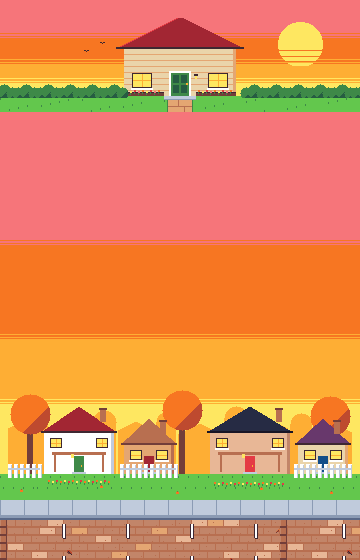
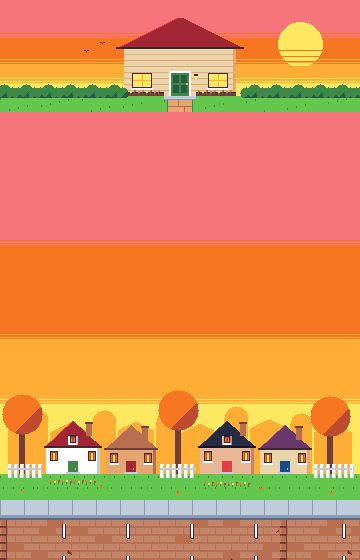
Give screen-end's street the backdrops' slim houses: four about as tall as they are wide under steep gables with lit rakes, two with dormers, their curtains drawn against the low sun with the lamps lit between them, the fences in the gaps; screen-stats' window picks up Elm Avenue's slimmer backdrop 

diff --git a/art/tools/screens.py b/art/tools/screens.py
@@ -750,29 +750,21 @@ def end():
     # The Long Way Home, in the zone backdrop's palette: trees, houses with lit windows, yards and the sidewalk.
     # Everything standing is kept within x 8 to 352, so the badges panel never cuts it into slivers.
     strip = clear(W, 150)
-    for cx, top in ((30, 44), (182, 40), (330, 46)):
+    for cx, top in ((22, 44), (178, 40), (330, 46)):
         bd.tree(strip, cx, top, "orange", "rust", r=20)
-    for x, w, wall, roof, door in ((44, 70, "white", "dred", "dgreen"), (210, 80, "skin1", "navy", "red")):
-        bd.house(strip, x, w, wall, roof, door, top=36)
-        strip.fill(x + 8, 82, w - 16, 3, "brown")
-        strip.fill(x + 10, 85, 2, 17, "brown")
-        strip.fill(x + w - 12, 85, 2, 17, "brown")
-        strip.fill(x + w // 2 - 8, 84, 3, 4, "yellow")
-        for wx in (x + 6, x + w - 18):
-            strip.fill(wx + 1, 69, 10, 8, "yellow")
-            strip.fill(wx + 6, 69, 1, 8, "amber")
-            strip.fill(wx + 1, 73, 10, 1, "amber")
-    for x, w, wall, roof, door in ((124, 50, "tan", "brown", "dred"), (298, 50, "cream", "purple", "blue")):
-        bd.house(strip, x, w, wall, roof, door, top=48)
-        for wx in (x + 6, x + w - 18):
-            strip.fill(wx + 1, 81, 10, 8, "yellow")
-            strip.fill(wx + 1, 85, 10, 1, "amber")
+    # slim houses as on the zone's backdrop, about as tall as they are wide under steep gables, their
+    # curtains drawn against the low sun with the lamps lit between them
+    homes = ((46, 54, "white", "dred", "dgreen"), (106, 50, "tan", "brown", "dred"),
+             (200, 54, "skin1", "navy", "red"), (260, 50, "cream", "purple", "blue"))
+    for k, (x, w, wall, roof, door) in enumerate(homes):
+        bd.house(strip, x, w, wall, roof, door, top=104 - w, roof_h=w // 2, parts=bd.SLIM, curtains="orange",
+                 eave=2, rake=bd.LIT.get(roof), dormer=k % 2 == 0)
     bd.ground(strip)
-    bd.flowers(strip, 48, 110, 110, ("orange", "yellow", "red"))
-    bd.flowers(strip, 214, 286, 112, ("orange", "yellow", "red"))
-    bd.fence(strip, 104, 8, 40)
-    bd.fence(strip, 104, 120, 176)
-    bd.fence(strip, 104, 294, 352)
+    bd.flowers(strip, 50, 96, 110, ("orange", "yellow", "red"))
+    bd.flowers(strip, 204, 250, 112, ("orange", "yellow", "red"))
+    bd.fence(strip, 104, 8, 42)
+    bd.fence(strip, 104, 160, 196)
+    bd.fence(strip, 104, 314, 352)
     for x, y in ((20, 120), (100, 116), (176, 122), (260, 118), (330, 122)):
         strip.fill(x, y, 3, 2, "orange")
         strip.fill(x + 1, y - 1, 1, 1, "rust")
